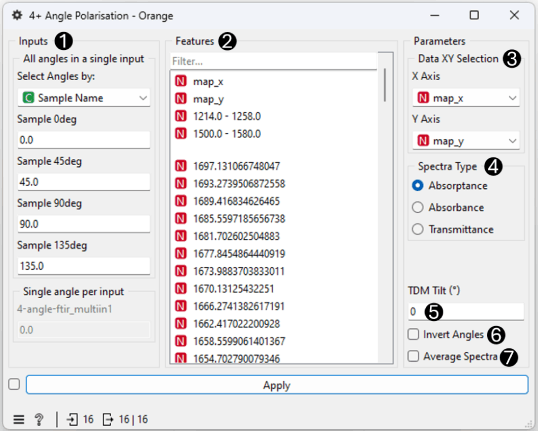
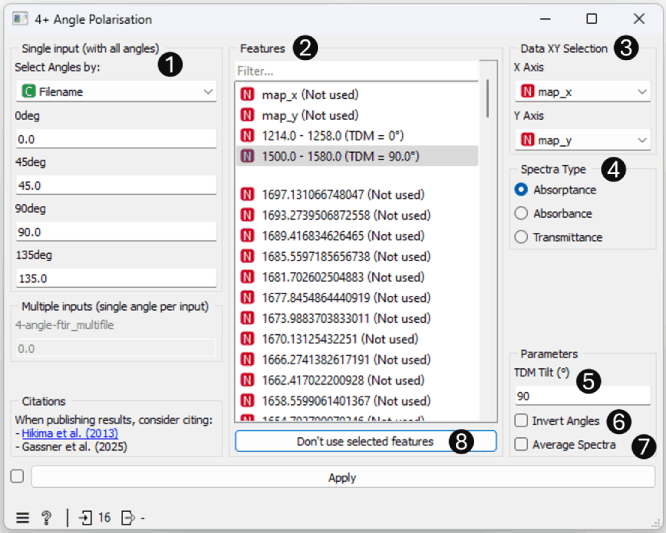
polar: update docs

diff --git a/doc/widgets/polar.md b/doc/widgets/polar.md
@@ -21,12 +21,13 @@ If you use this widget for your data analysis, please cite the articles in which
 1. Inputs: Define the polarisation angles of the input dataset. Data can be passed to widget with two methods:
     - *Multifile Input*: A single input with data from all polarisation angles in a single dataset. (Each polarisation angle must be separated with a categorical variable).
     - *Multiple Inputs*: 1 input per polarisation angle.
-2. Features: Select the features to calculate the orientation of.
+2. Features: Select the features to calculate the orientation of. Features are selected by clicking on the desired feature(s) and assigning a TDM value (see point 5). A default value is assigned using the current value in the "TDM Tilt (°)" box, changing this value will change the associated value of the selected feature(s). Deselecting features will not remove them from the list to be calculated, only features with ("Not used") will not be calculated (see point 8).
 3. Data XY Selection: Define the attributes for the x and y axes for 2D datasets.
 4. Spectra Type: The type of spectra on the input. A conversion to *Absorptance* is performed before calculating orientation information when *Absorbance* or *Transmittance* is selected (this does not affect meta and class variables).
 5. TDM Tilt (°): The angle of the Transition Dipole Moment with respect to the molecular axis. Used in calculation of the value of Herman's orientation function.
 6. Invert Angles: Invert the calculated Azimuth Angles about the 0 degree axis (i.e. so that 90 degrees is output as -90 degrees).
 7. Average Spectra: Average all output variables across polarisation angles.
+8. Don't use selected features: Remove the selected features from the list to be used in calculations
 
 Input Examples
 -------
